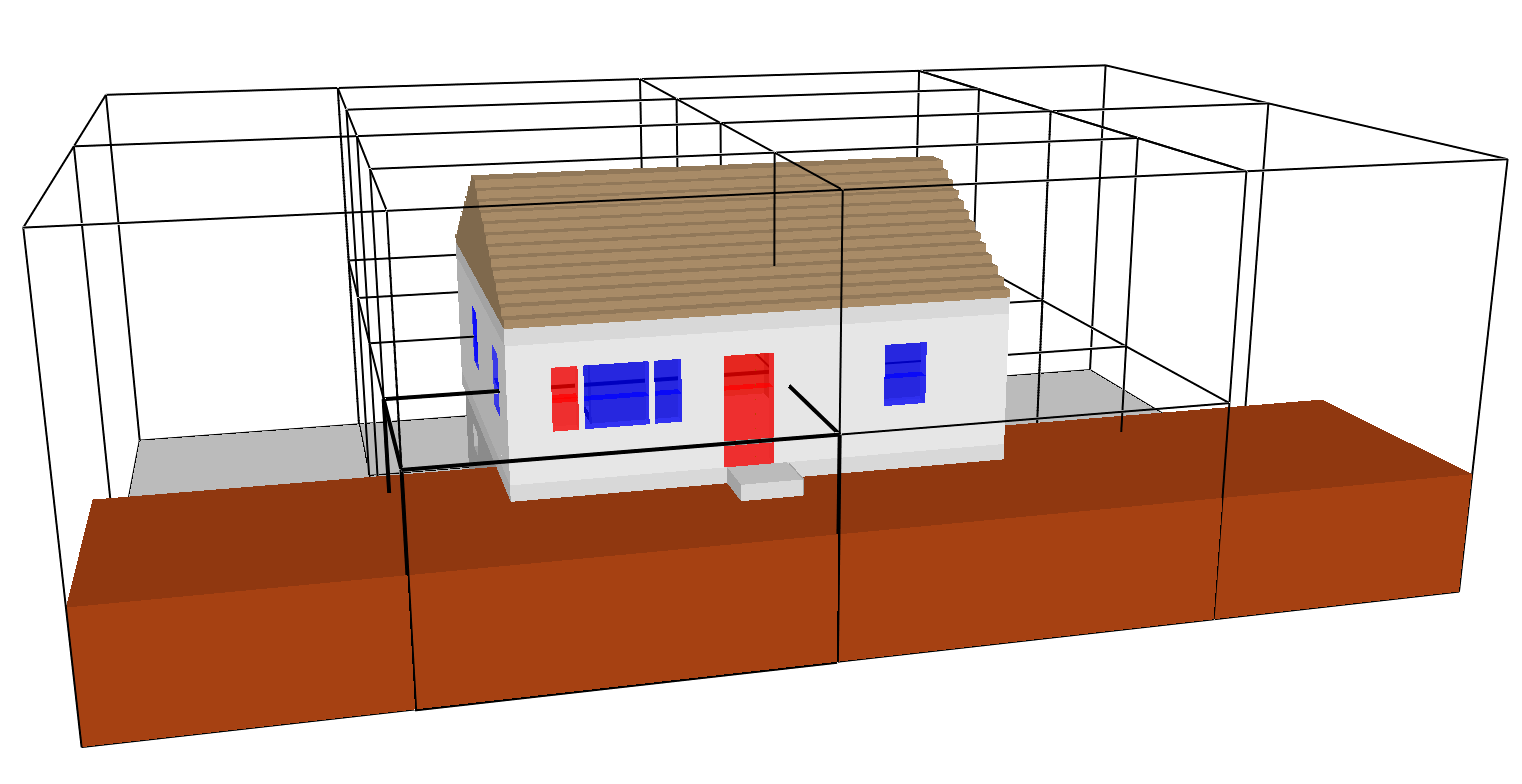
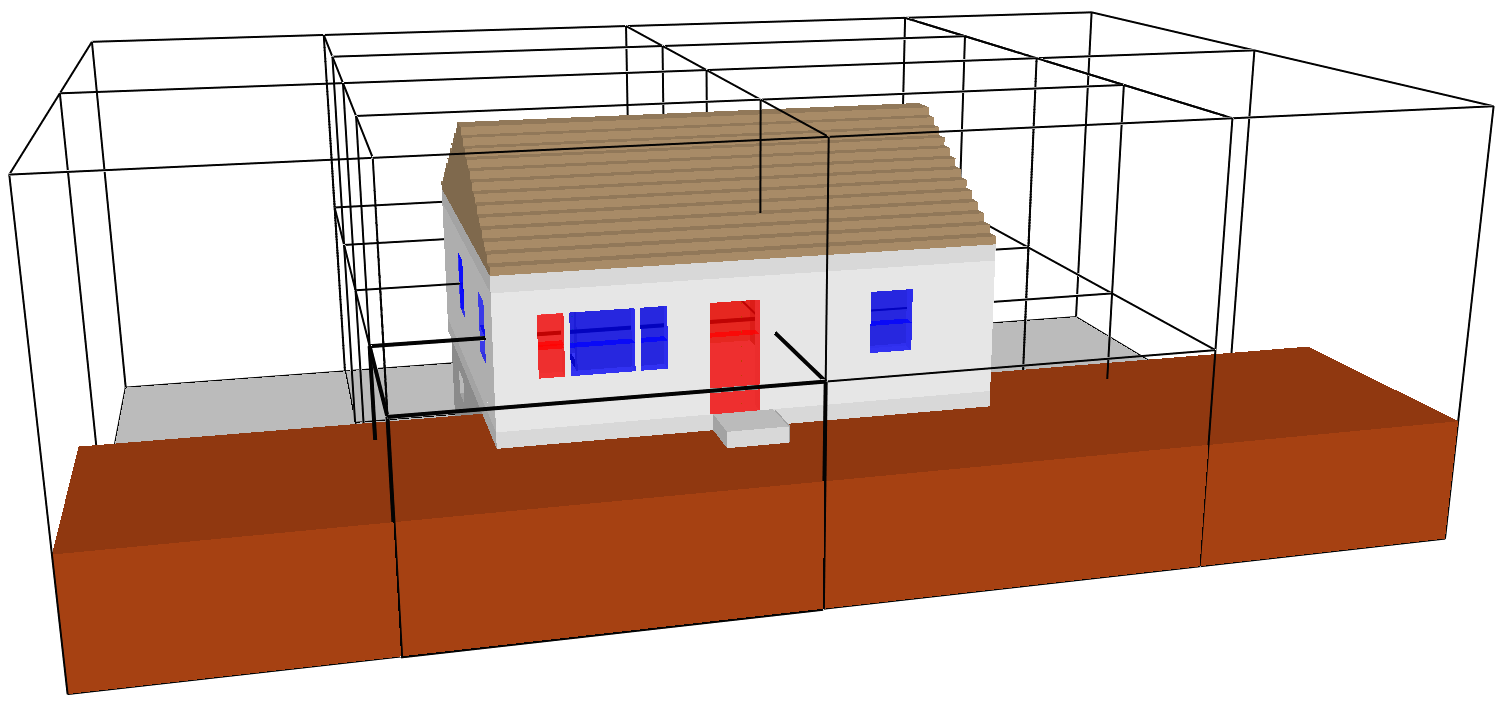
PG_Co: update figures and minor update to report

diff --git a/Studies/2013_PG_County/Report/PG_Co_Fire.tex b/Studies/2013_PG_County/Report/PG_Co_Fire.tex
@@ -31,6 +31,14 @@
 \chead{}
 \renewcommand{\headrulewidth}{0pt}
 
+% PDF metadata
+\hypersetup{
+  pdftitle={Simulation of a Wind Driven Basement Fire - Riverdale Heights, MD},
+  pdfauthor={Weinschenk, Craig G., Overholt, Kristopher J., and Madrzykowski, Daniel},
+  pdfsubject={Insert abstract here.},
+  pdfkeywords={insert; keywords; here}
+}
+
 \begin{document}
 \pagenumbering{gobble}
 
@@ -284,7 +292,7 @@ In reality, the quantities associated with these input parameters are not fixed 
 
 \section{Geometry}
 \label{geom}
-The structure involved in this fire incident was a one story, single-family structure with a basement. Due to the surrounding topography (the ground slopes from the front to rear of the structure), the basement on the rear side of the structure was above grade. The structure was wood-framed platform-framed with a gable roof. \footnote{Platform-framed construction means that floor joists are completely covered with a sub-floor. This forms a platform for which walls are built from.} The structure had a first floor footprint of 9.14~m (30~ft) by 7.77~m (25.5~ft) with the basement being slightly smaller, 9.14~m (30~ft) by 7.16~m (23.5~ft), as show in Fig.~\ref{fig:simp_geom}. This results in a first floor area of 71~m$^2$ (764~ft$^2$) and a basement floor area of 65~m$^2$ (700~ft$^2$). The interior walls and ceiling were constructed from nominal lumber covered by 12.7~mm (0.5~in) gypsum board~\cite{PGCounty2013}. There is a single flight of stairs in the center of the structure which connected the first floor to the basement. Access to the structure could be made on the front side of the first floor and the rear side of the basement.
+The structure involved in this fire incident was a one story, single-family structure with a basement. Due to the surrounding topography (the ground slopes from the front to rear of the structure), the basement on the rear side of the structure was above grade. The structure was wood-framed platform-framed with a gable roof. \footnote{Platform-framed construction means that floor joists are completely covered with a sub-floor. This forms a platform for which walls are built from.} The structure had a first floor footprint of 9.14~m (30~ft) by 7.77~m (25.5~ft) with the basement being slightly smaller, 9.14~m (30~ft) by 7.16~m (23.5~ft), as show in Fig.~\ref{fig:simp_geom}. This results in a first floor area of 71~m$^2$ (764~ft$^2$) and a basement floor area of 65~m$^2$ (700~ft$^2$). The interior walls and ceiling were constructed from nominal lumber covered by 12.7~mm (0.5~in) gypsum board~\cite{PGCounty2013}. There was a single flight of stairs in the center of the structure which connected the first floor to the basement. Access to the structure could be made on the front side of the first floor and the rear side of the basement.
 
 The fire, which is described in Section~\ref{fire}, started in the basement and spread to the stairs which connect to the first floor. Discussion of the fire's impact on the interior conditions is provided in Section~\ref{results}. Figure~\ref{fig:exterior} shows the exterior of the front and rear of the structure after the incident. Note that the majority of the damage occurred in the basement of the structure. Fully dimensioned drawings of the interior of the basement and first floor are shown in Figs.~\ref{fig:basement} and \ref{fig:first_floor}, respectively.
 
@@ -382,7 +390,7 @@ Figure~\ref{fig:geom_grid} shows the front of the structure rendered in Smokevie
    \scalebox{1.0}{\includegraphics[width=\textwidth]{../Figures/pg_county_meshfront}} \\
    \scalebox{1.0}{\includegraphics[width=\textwidth]{../Figures/pg_county_meshrear}} 
 \end{tabular*}
-\caption{Front (left) and rear (right) of the structure with 10~cm computational mesh.}
+\caption{Front (top) and rear (bottom) of the structure with 10~cm computational mesh surrounding the structure and 20~cm mesh to the left and right of the structure.}
 \label{fig:geom_grid}
 \end{figure}
 
